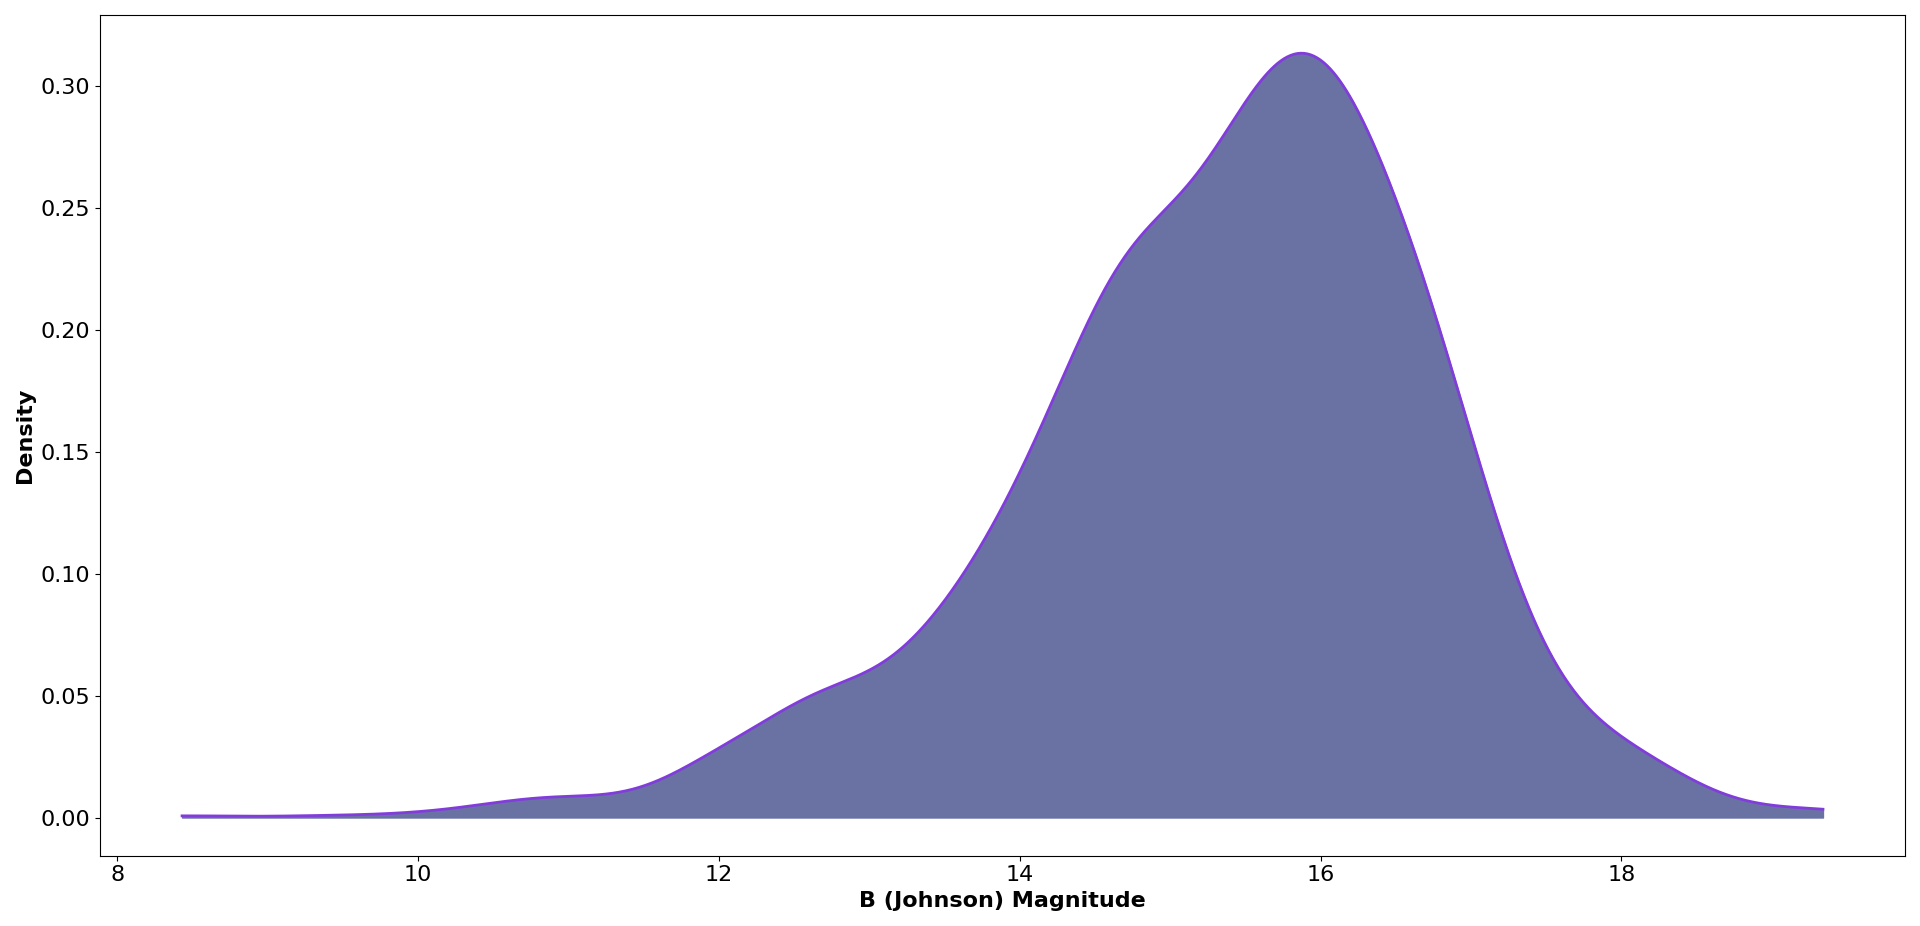
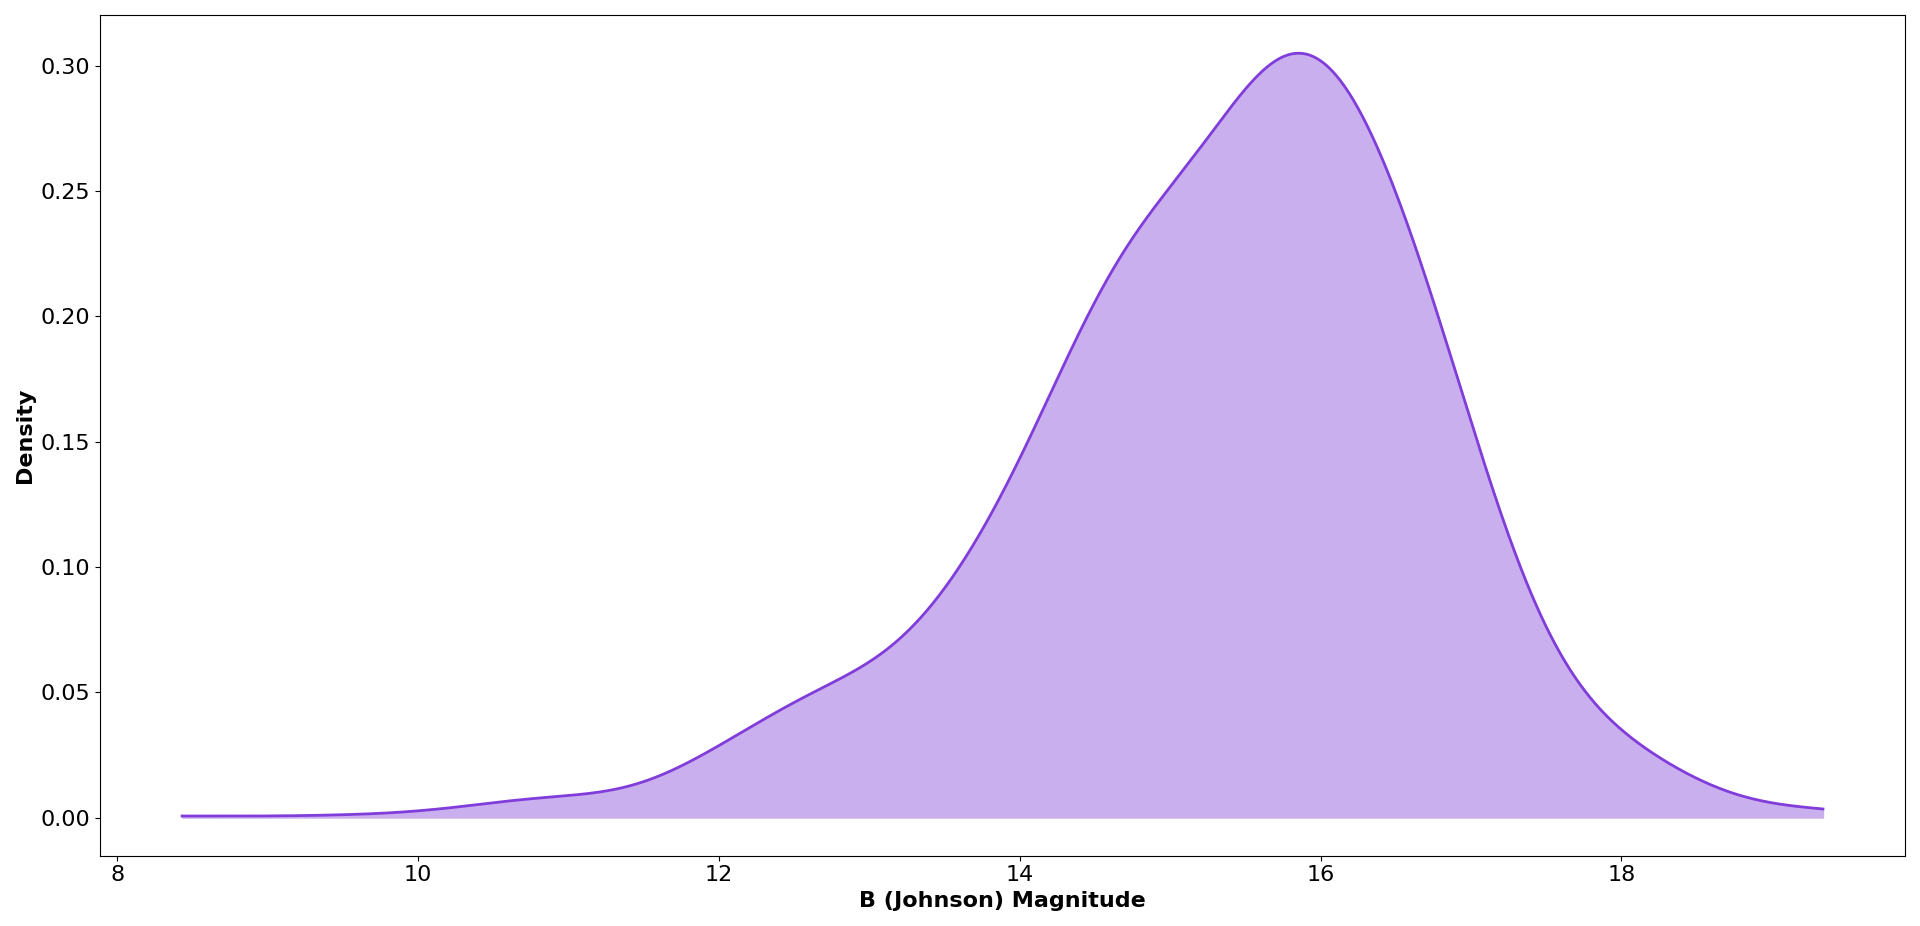
density 1D seaborn

diff --git a/Plot_types/Density/Density_1D/Density_1D_Python_plotly.py b/Plot_types/Density/Density_1D/Density_1D_Python_plotly.py
@@ -1,0 +1,66 @@
+
+# Paths:
+path_data = "data/"
+
+# Packages:
+import numpy as np
+import pandas as pd
+import seaborn as sns
+import matplotlib.pyplot as plt
+
+# Display options:
+pd.set_option("display.width", 1200)
+pd.set_option("display.max_columns", 300)
+pd.set_option("display.max_rows", 300)
+
+# Dataset:
+df = pd.read_csv(path_data + "nasa_exoplanets.csv")
+df_varnames = pd.read_csv(path_data + "nasa_exoplanets_var_names.csv")
+
+# Variables:
+x_var = "sy_bmag"
+x_var_name = df_varnames.loc[(df_varnames["var"] == x_var), ["var_name"]].values[0][0]
+
+# Adapt the data:
+x_vals = df[x_var].tolist()
+
+# Plot:
+fig, ax = plt.subplots(
+    figsize = (20, 10),
+    tight_layout = True
+)
+_ = sns.kdeplot(
+    x = x_vals,
+    color = "#813DDA",
+    shade = True,
+    alpha = 0.7,
+    linewidth = 2,
+    ax = ax,
+    clip = (min(x_vals), max(x_vals)),
+    bw_method = 0.3
+)
+_ = ax.set_xlabel(
+    x_var_name,
+    fontsize = 16,
+    fontweight = "bold"
+)
+_ = ax.set_ylabel(
+    "Density",
+    fontsize = 16,
+    fontweight = "bold"
+)
+_ = ax.tick_params(
+    axis = "x", 
+    which = "major", 
+    labelsize = 16
+)
+_ = ax.tick_params(
+    axis = "y", 
+    which = "major", 
+    labelsize = 16
+)
+plt.legend(
+    [], [], 
+    frameon = False
+)
+

diff --git a/Plot_types/Density/Density_1D/Density_1D_Python_matplotlib.py b/Plot_types/Density/Density_1D/Density_1D_Python_matplotlib.py
@@ -28,7 +28,7 @@ df = df.dropna()
 x_vals = df[x_var].tolist()
 xs = np.linspace(min(x_vals), max(x_vals), 1000)
 density = gaussian_kde(x_vals)
-density.covariance_factor = lambda : .25
+density.covariance_factor = lambda : 0.3
 density._compute_covariance()
 
 # Plot:
@@ -45,7 +45,7 @@ _ = ax.plot(
 _ = ax.fill_between(
     x = xs,
     y1 = density(xs),
-    color = my_palette[2]
+    color = "#CAAFEE"
 )
 _ = ax.set_xlabel(
     x_var_name,
